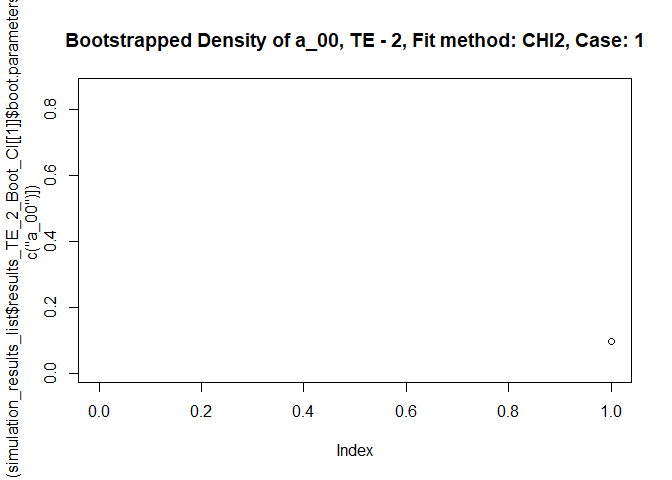
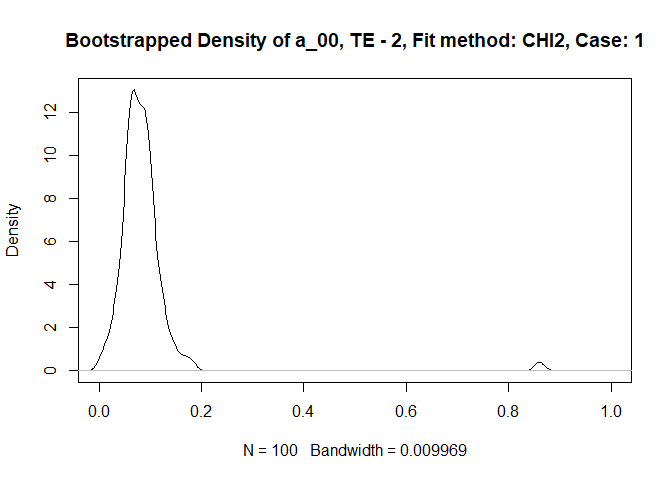
correction of density plot

diff --git a/TEMAP_example.md b/TEMAP_example.md
@@ -2156,7 +2156,7 @@ Change to 'rresults\_TE\_2\_Boot\_CI' for TE-2 model or change to 'results\_TE\_
 if (is.null(simulation_results_list$results_TE_2_Boot_CI)==0) {
   
   #pdf("TE-2 Bootstrapped Density of a_00.pdf")
-  plot(( simulation_results_list$results_TE_2_Boot_CI[[1]]$boot.parameters[,c("a_00")]),xlim = c(0, 1), main=paste0("Bootstrapped Density of a_00, TE - 2, Fit method: ", fit_method, ", Case: ",case))
+  plot(density( simulation_results_list$results_TE_2_Boot_CI[[1]]$boot.parameters[,c("a_00")]),xlim = c(0, 1), main=paste0("Bootstrapped Density of a_00, TE - 2, Fit method: ", fit_method, ", Case: ",case))
   # dev.off()
   #pdf("TE-2 Bootstrapped Density of a_01.pdf")
   plot(density(simulation_results_list$results_TE_2_Boot_CI[[1]]$boot.parameters[,c("a_01")]),xlim = c(0, 1), main=paste0("Bootstrapped Density of a_01, TE - 2, Fit method: ", fit_method, ", Case: ",case))
@@ -2239,8 +2239,8 @@ You can easily revise it to save other information and to make other graphs
 
 See documentation section.
 
-**For profesoor Lee**
-=====================
+**Plotting Confidence Intervals**
+=================================
 
 ``` r
 fit_method <- simulation_results_list$fit_method
